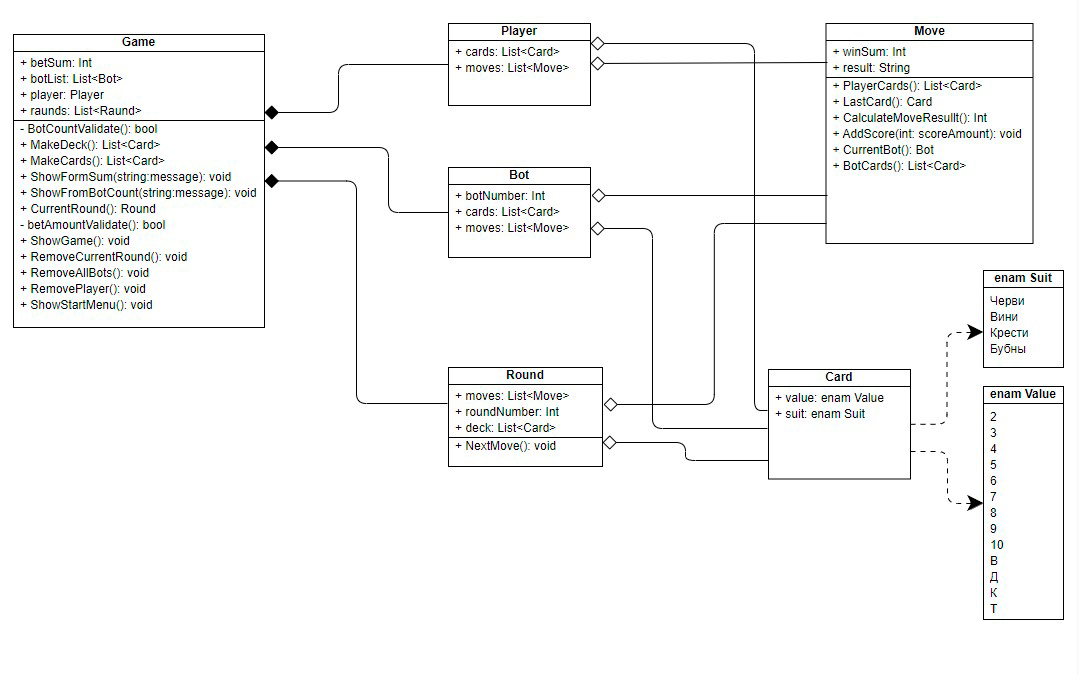
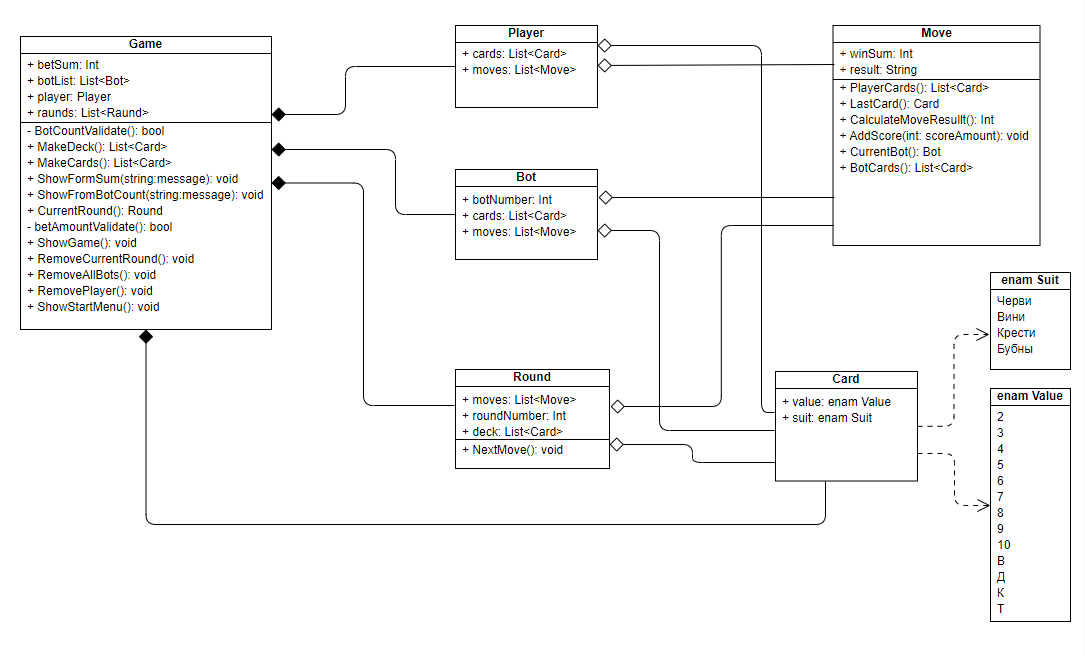
Lab_5_edit

diff --git a/lab_5/lab_5.md b/lab_5/lab_5.md
@@ -60,7 +60,9 @@ ___
 11. Card и enam Value
     * Отношение: Зависимость
     * Описание: Card зависит от Value, поскольку использует Value как тип для одного из своих свойств
-
+11. Card и Game
+    * Отношение: Композиция
+    * Описание: Карта не может существовать независимо от игры
 
 
 
